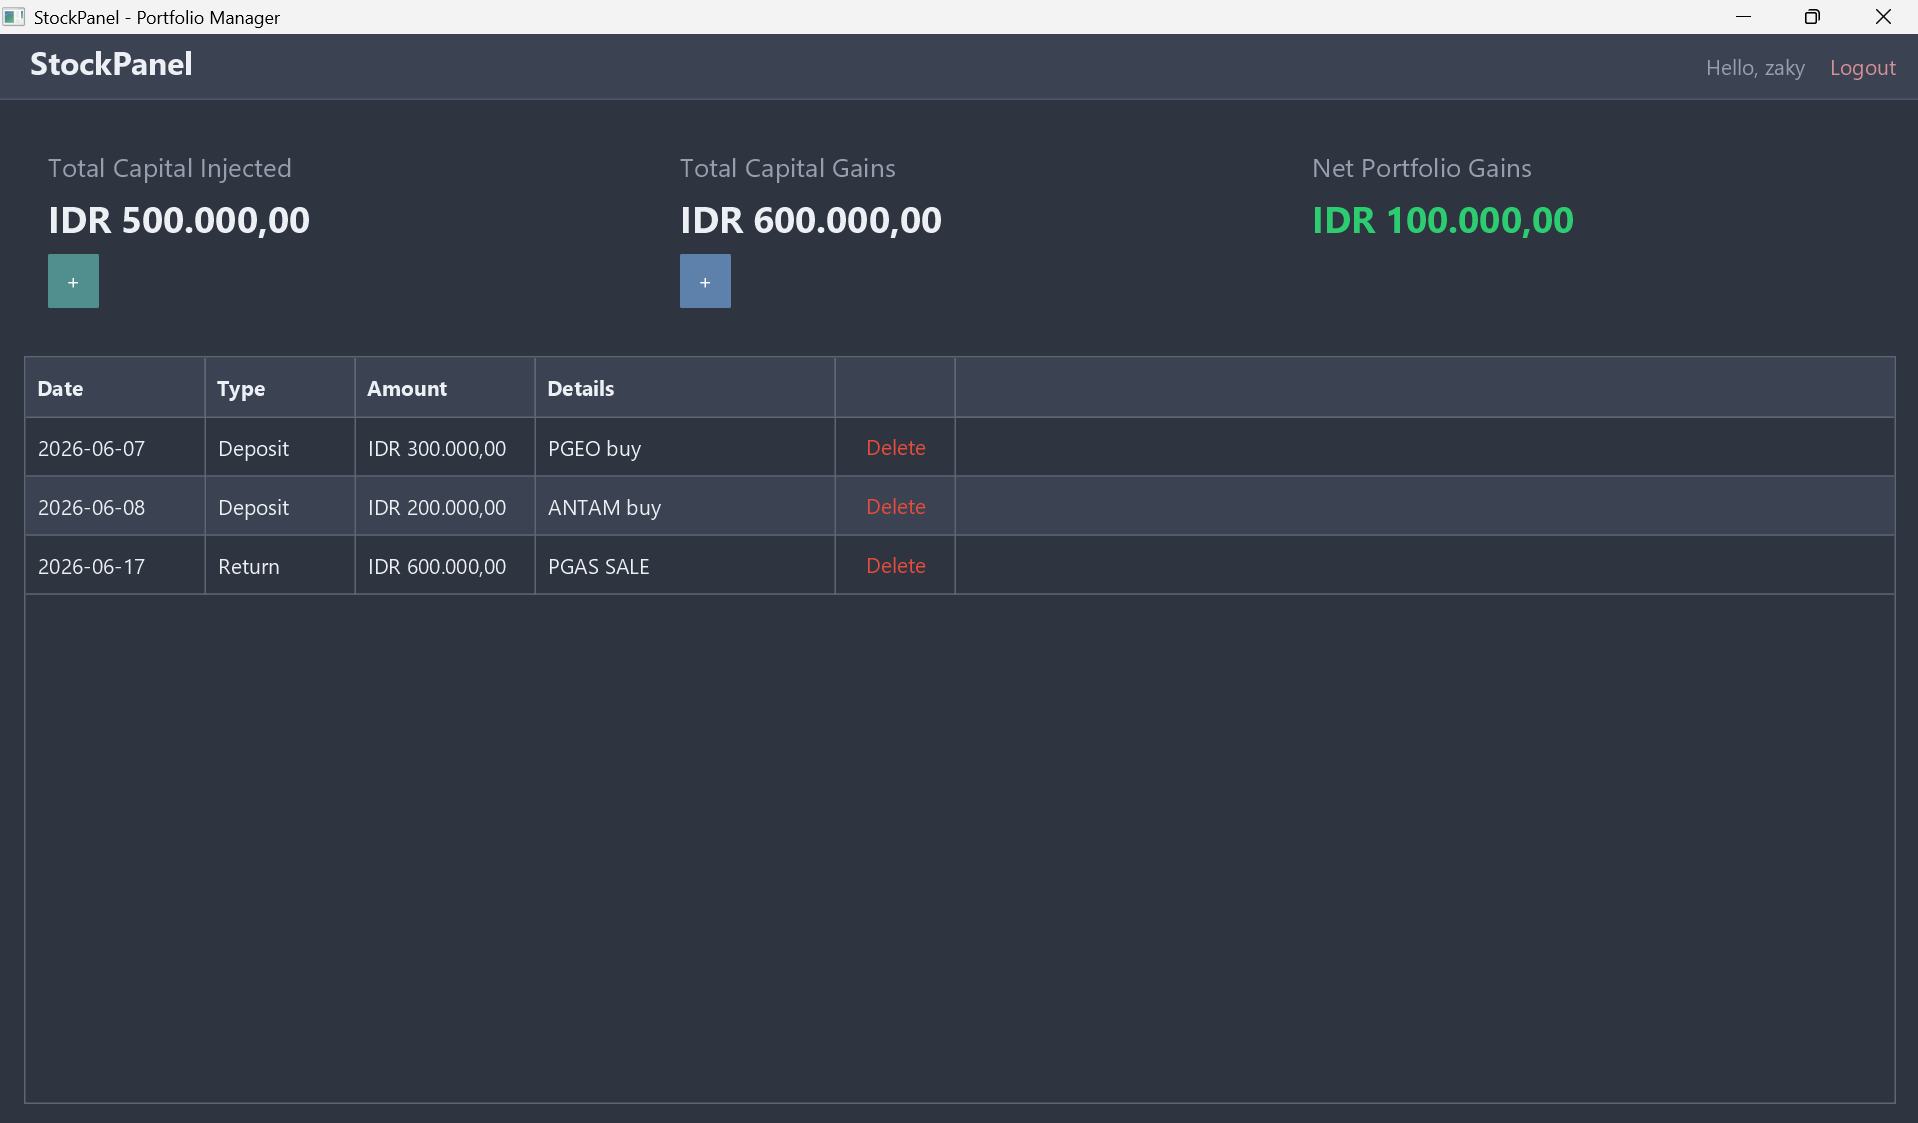
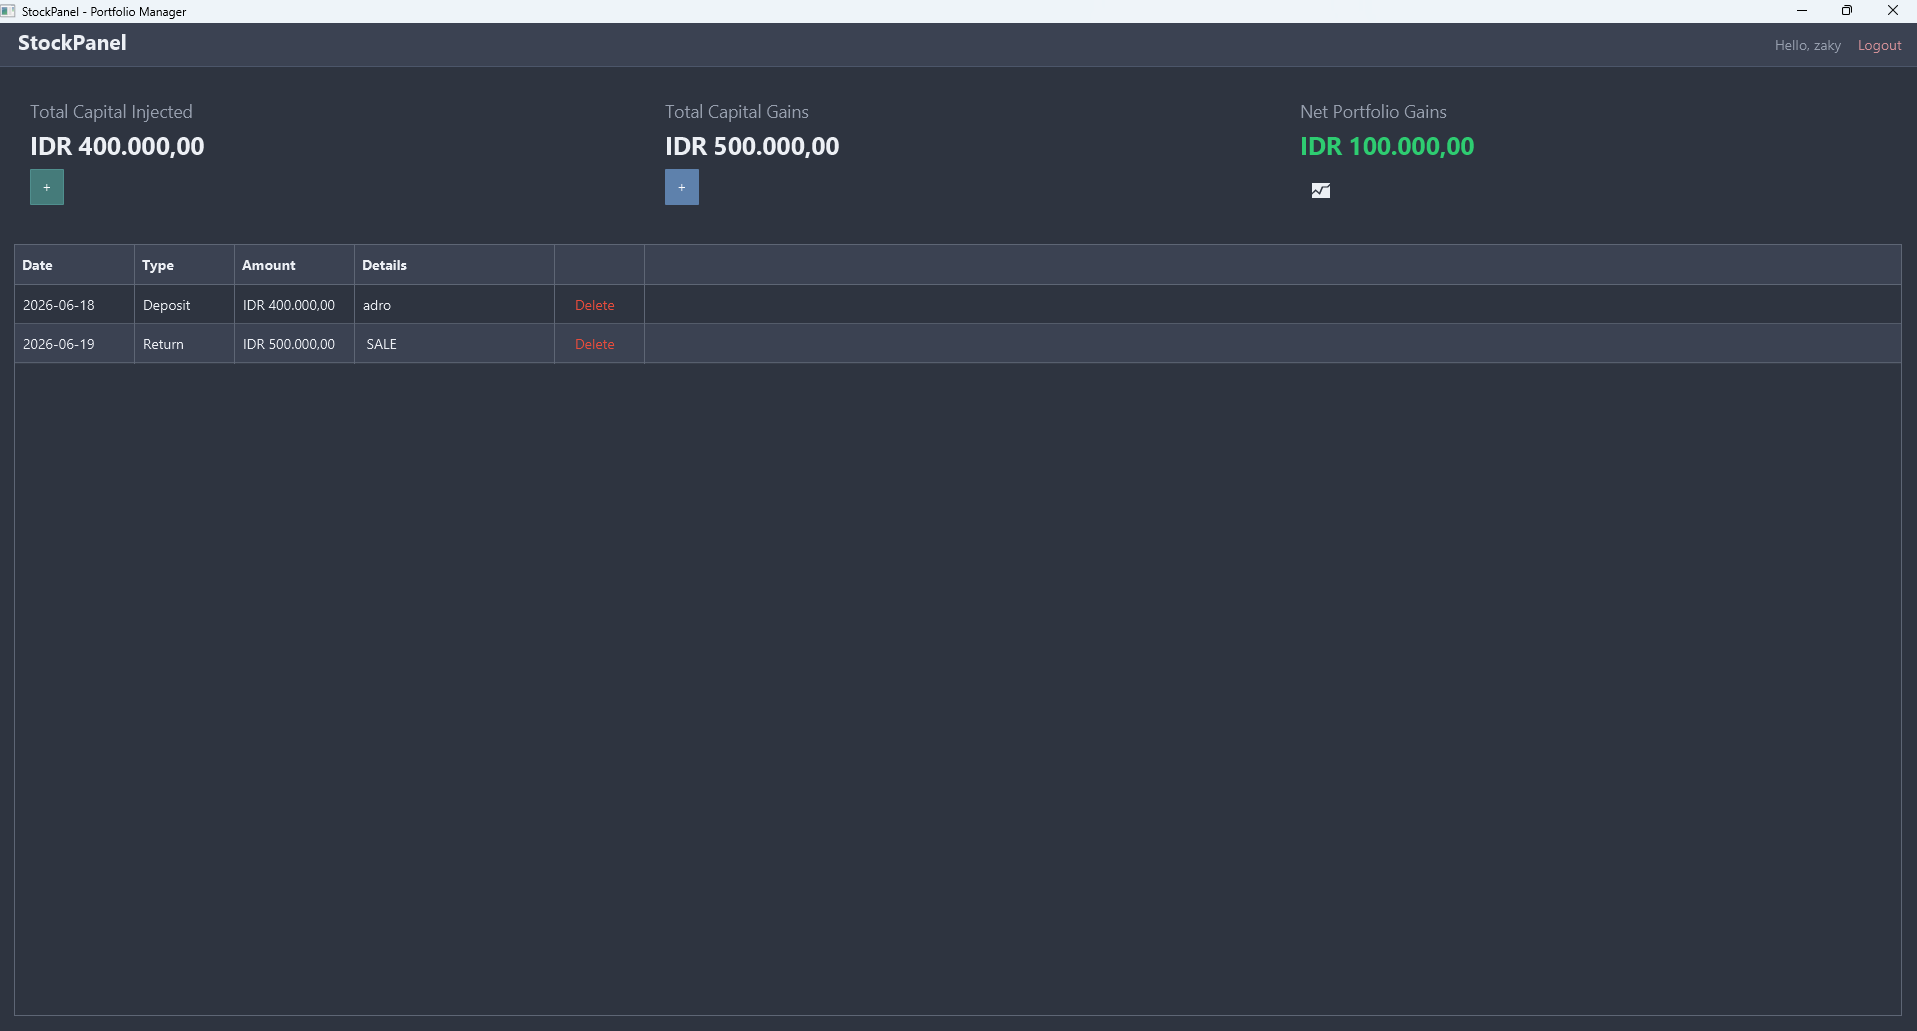
readme

diff --git a/README.md b/README.md
@@ -2,7 +2,9 @@
 
 A lightweight, ultra-secure native desktop application designed to track net capital allocations, realized returns (gains from selling stock), and dividends.
 
-![Alt](https://raw.githubusercontent.com/zakyabdurrahman/stock-panel/refs/heads/main/screenshots/s1.png)
+![Alt](https://raw.githubusercontent.com/zakyabdurrahman/stock-panel/refs/heads/main/screenshots/s1.png)  
+
+![Alt](https://raw.githubusercontent.com/zakyabdurrahman/stock-panel/refs/heads/main/screenshots/s2.png)
 
 Most mainstream retail stock trading apps (like Ajaib) only display the fluctuating value of your *current active holdings*. They fail to cleanly aggregate and show your total lifetime performance—leaving out **realized gains from stocks you've already sold** and **passive cash flow generated from dividends**.
 
